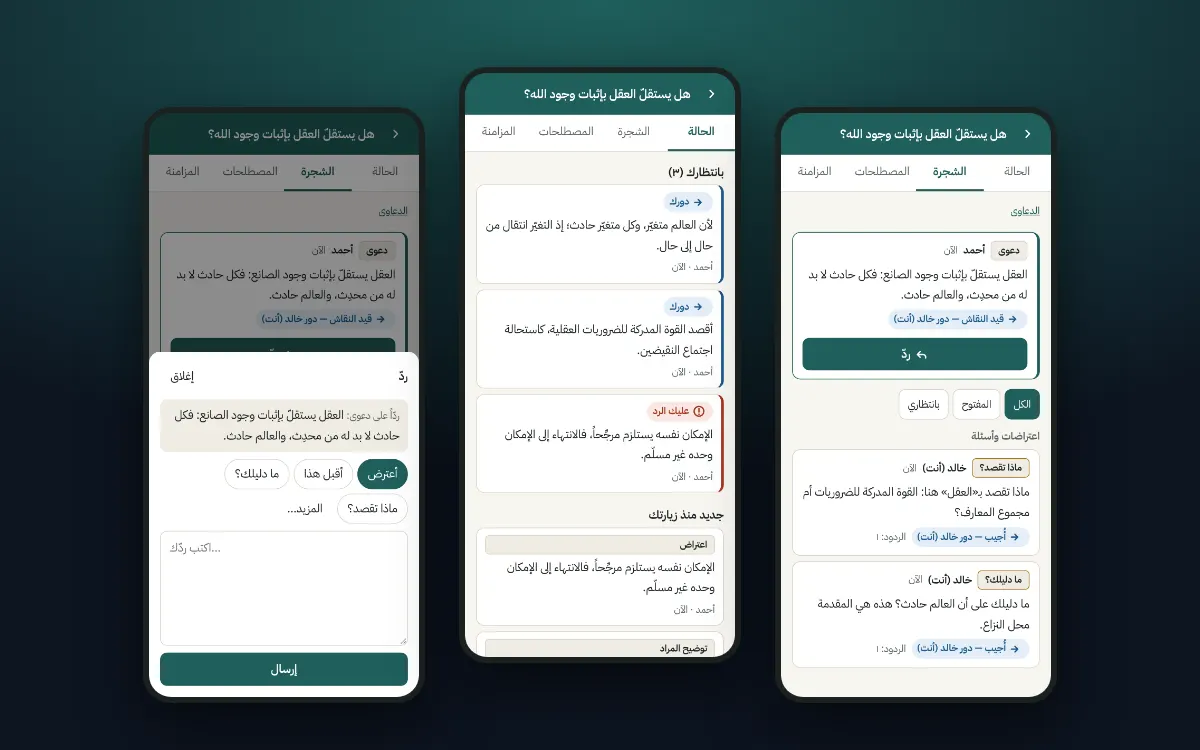
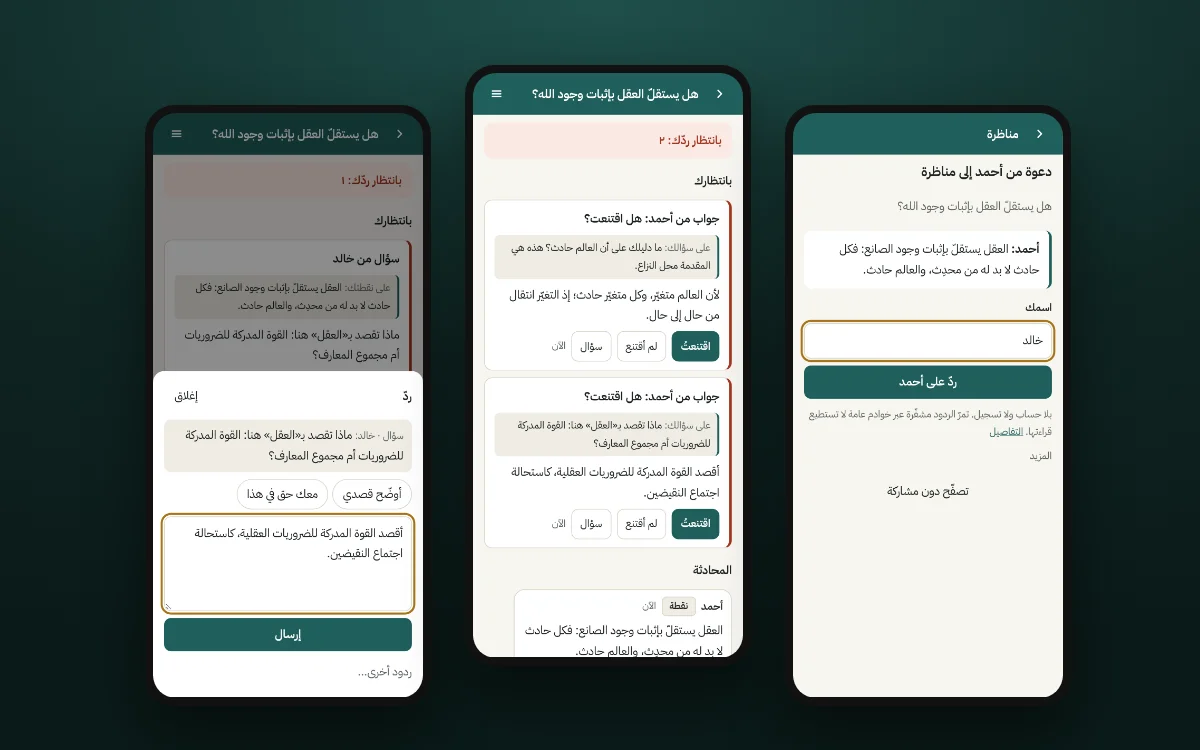
Munazara: page text and screenshot for the v2 interface (conversation screen, decision buttons, relay sync by default)

diff --git a/content/apps/details/munazara.ts b/content/apps/details/munazara.ts
@@ -39,17 +39,17 @@ export const detail: AppDetail = {
   },
   features: [
     {
-      title: { en: "Every reply under the point it answers", ar: "كل ردّ تحت النقطة التي يرد عليها" },
+      title: { en: "As easy as a chat, organised underneath", ar: "سهل كالمحادثة، ومنظّم من الداخل" },
       body: {
-        en: "Every reply is tied to the exact point it answers, so the discussion becomes a tree: the claim at the top, under it its proofs and the objections to it, and under each objection the answer to it.",
-        ar: "كل ردّ يُربط بالنقطة التي يرد عليها بالضبط. فيصبح النقاش شجرة: في أعلاها الدعوى، وتحتها أدلتها، والاعتراضات عليها، وتحت كل اعتراض، الجواب عنه.",
+        en: "You write as you would on WhatsApp: tap \"Reply\" under a message and type. Every reply is tied to the exact point it answers, so the discussion is also a tree, which you can open from the menu: the claim at the top, under it its proofs and the objections to it, and under each objection the answer to it.",
+        ar: "تكتب كما تكتب في واتساب: تضغط «ردّ» تحت الرسالة وتكتب. وكل ردّ يُربط بالنقطة التي يرد عليها بالضبط، فيكون النقاش أيضاً شجرة تفتحها من القائمة: في أعلاها الدعوى، وتحتها أدلتها، والاعتراضات عليها، وتحت كل اعتراض، الجواب عنه.",
       },
     },
     {
       title: { en: "It always knows whose turn it is", ar: "يعرف دائماً على مَن الدور" },
       body: {
-        en: "If your friend asks for the proof of your claim, you see \"You owe a reply\". Once you answer, the turn passes to them and they see \"Your move\". They then choose: accept your answer, object to it, or propose that you agree to disagree.",
-        ar: "إذا سألك صاحبك عن دليل دعواك، تظهر لك عبارة: «عليك الرد». فإذا أجبت، انتقل الدور إليه، فتظهر له عبارة: «دورك». وعندها يختار: أن يقبل جوابك، أو يعترض عليه، أو يقترح أن تتفقا على الاختلاف.",
+        en: "One line at the top says what is waiting for your reply and what is waiting for your friend. Each point waiting on you gets a card that quotes exactly what to answer. When your friend answers your question, you decide with one tap: \"Convinced\", \"Not convinced\" or \"Question\".",
+        ar: "سطر واحد في الأعلى يقول: ما الذي بانتظار ردّك، وما الذي بانتظار صاحبك. ولكل نقطة تنتظرك بطاقة تقتبس بالضبط ما تردّ عليه. وإذا أجاب صاحبك عن سؤالك، تختار بضغطة: «اقتنعتُ»، أو «لم أقتنع»، أو «سؤال».",
       },
     },
     {
@@ -62,8 +62,8 @@ export const detail: AppDetail = {
     {
       title: { en: "Moves taken from the classical art of debate", ar: "أزرار من آداب البحث والمناظرة" },
       body: {
-        en: "The buttons are not arbitrary; they come from a long-established discipline in our heritage, the etiquette of inquiry and debate (adab al-bahth wal-munazara). \"What do you mean?\" asks for the meaning to be clarified. \"What is your proof?\" asks for the proof of a claim. \"I object\" comes with the reason for the objection. \"Refute with a witness\" (naqd) defeats a proof with a case where its conclusion fails. \"Counter-argument\" (mu'arada) sets up an opposing claim with its proof. \"Show the source\" is for when your friend relays someone else's words. Then \"I accept this\" if you are convinced, or \"Propose we agree to disagree here\" if you end up at two different starting principles.",
-        ar: "الأزرار ليست عشوائية، بل مأخوذة من علمٍ عريق في تراثنا، هو: آداب البحث والمناظرة. «ماذا تقصد؟»: لطلب توضيح المعنى. «ما دليلك؟»: لطلب الدليل على الدعوى. «أعترض»: مع ذكر سبب الاعتراض. «نقض بشاهد»: أن تُبطل الدليل بمثالٍ يتخلّف فيه الحكم. «معارضة»: أن تقيم دعوى مقابلة بدليلها. «وثّق النقل»: إذا نقل صاحبك كلاماً عن غيره. ثم «أقبل هذا» إذا اقتنعت، أو «أقترح أن نتفق على الاختلاف هنا» إذا انتهيتما إلى أصلين مختلفين.",
+        en: "Choosing a reply type is optional. The types are not arbitrary; they come from a long-established discipline in our heritage, the etiquette of inquiry and debate (adab al-bahth wal-munazara). \"What do you mean?\" asks for the meaning to be clarified. \"What is your proof?\" asks for the proof of a claim. \"I object\" comes with the reason for the objection. \"Refute with a witness\" (naqd) defeats a proof with a case where its conclusion fails. \"Counter-argument\" (mu'arada) sets up an opposing claim with its proof. \"Show the source\" is for when your friend relays someone else's words. Then \"I accept this\" if you are convinced, or \"Propose we agree to disagree here\" if you end up at two different starting principles.",
+        ar: "اختيار نوع الردّ اختياري، والأنواع ليست عشوائية، بل مأخوذة من علمٍ عريق في تراثنا، هو: آداب البحث والمناظرة. «ماذا تقصد؟»: لطلب توضيح المعنى. «ما دليلك؟»: لطلب الدليل على الدعوى. «أعترض»: مع ذكر سبب الاعتراض. «نقض بشاهد»: أن تُبطل الدليل بمثالٍ يتخلّف فيه الحكم. «معارضة»: أن تقيم دعوى مقابلة بدليلها. «وثّق النقل»: إذا نقل صاحبك كلاماً عن غيره. ثم «أقبل هذا» إذا اقتنعت، أو «أقترح أن نتفق على الاختلاف هنا» إذا انتهيتما إلى أصلين مختلفين.",
       },
     },
     {
@@ -93,8 +93,8 @@ export const detail: AppDetail = {
       src: "/images/apps/munazara-shot.webp",
       shape: "wide",
       caption: {
-        en: "Three screens of a debate: the tree of claims and objections, the Status page with what is waiting on you, and the reply sheet",
-        ar: "ثلاث شاشات من مناظرة: شجرة الدعاوى والاعتراضات، وصفحة «الحالة» وفيها ما ينتظرك، ونافذة الرد",
+        en: "Three screens: opening an invite (one field, then reply), the conversation with what is waiting for your reply, and the reply box",
+        ar: "ثلاث شاشات: فتح دعوة (خانة واحدة ثم الردّ)، والمحادثة وفيها ما بانتظار ردّك، ونافذة الردّ",
       },
     },
   ],
@@ -190,8 +190,8 @@ export const detail: AppDetail = {
         {
           title: { en: "What leaves your device?", ar: "ماذا يخرج من جهازك؟" },
           body: {
-            en: "\"Manual\" mode: nothing except what you send yourself (an update link or file). \"Sync via public servers\": encrypted copies of your points are sent to public Nostr relays run by others. They cannot read the content, but they see timing, size and IP address, and can link one debate's activity together. They do not promise to keep data long; that is why every device keeps the whole debate.",
-            ar: "في الوضع «اليدوي»: لا شيء إلا ما ترسله بنفسك (رابط تحديث أو ملف). في وضع «المزامنة عبر خوادم عامة»: نسخ مشفّرة من نقاطك تُرسَل إلى خوادم «نوستر» عامة يديرها آخرون. لا يستطيعون قراءة المحتوى، لكنهم يرون توقيت الإرسال وحجمه وعنوان IP، ويمكنهم ربط نشاط المناظرة الواحدة ببعضه. ولا تضمن هذه الخوادم الاحتفاظ بالبيانات مدة طويلة؛ لذلك يحتفظ كل جهاز بالمناظرة كاملة.",
+            en: "\"Manual\" mode: nothing except what you send yourself (an update link or file). \"Sync via public servers\" (the default): encrypted copies of your points are sent to public Nostr relays run by others. They cannot read the content, but they see timing, size and IP address, and can link one debate's activity together. They do not promise to keep data long; that is why every device keeps the whole debate.",
+            ar: "في الوضع «اليدوي»: لا شيء إلا ما ترسله بنفسك (رابط تحديث أو ملف). في وضع «المزامنة عبر خوادم عامة» (وهو الافتراضي): نسخ مشفّرة من نقاطك تُرسَل إلى خوادم «نوستر» عامة يديرها آخرون. لا يستطيعون قراءة المحتوى، لكنهم يرون توقيت الإرسال وحجمه وعنوان IP، ويمكنهم ربط نشاط المناظرة الواحدة ببعضه. ولا تضمن هذه الخوادم الاحتفاظ بالبيانات مدة طويلة؛ لذلك يحتفظ كل جهاز بالمناظرة كاملة.",
           },
         },
         {
